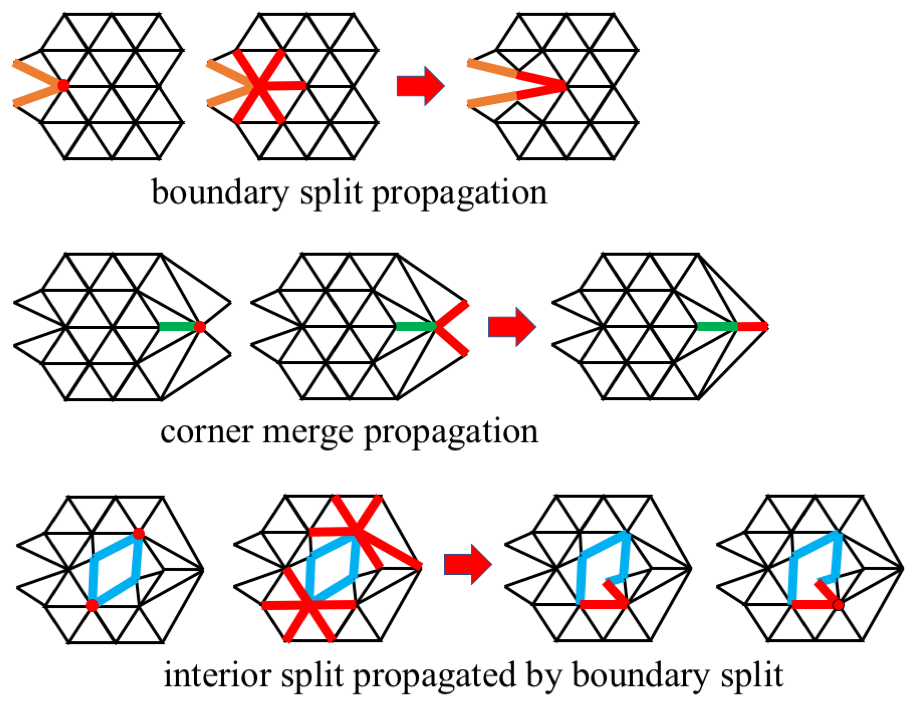
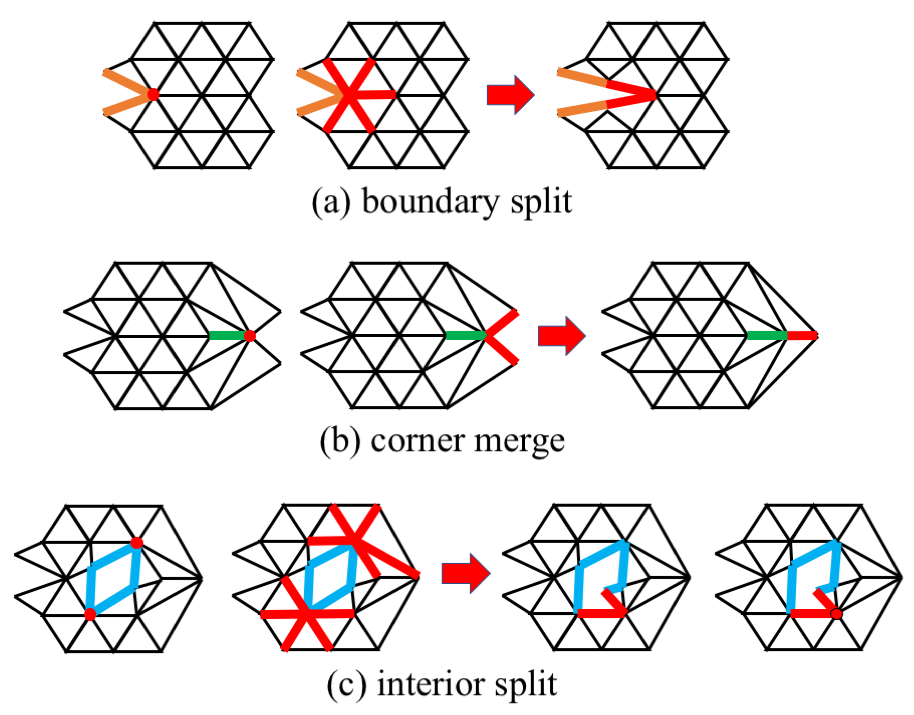
Added propagation figure, replied to propagation detail

Changed region(s): [[0.0, 0.6846, 1.0, 0.9958], [0.0, 0.3423, 0.8884, 0.6535], [0.0, 0.0, 0.7965, 0.3112]]

diff --git a/paper/topologySteps_2.tex b/paper/topologySteps_2.tex
@@ -66,7 +66,7 @@ Corners are formed by three UV vertices corresponding to the tail edge of a cut 
 \subsection{Topology Search Candidates}
 In analogy to a continuous search direction, at the start of each new primal solve we search for a candidate mesh operation to propagate descent with. 
 %
-To select the candidate mesh operation we first consider all $m$ boundary vertices in the current topology $T^k$. \danny{Minchen: confirm this detail:} For each such vertex we compute the standard deviation over all the distortion energy gradients acting on the vertex contributed from incident elements. From the set of $m^{0.8}$ boundary vertices with largest deviation we then build a set of candidate mesh operations $O^k$ formed by boundary vertex splits and corner merges (when valid) on those vertices. We then find a minimizer
+To select the candidate mesh operation we first consider all $m$ boundary vertices in the current topology $T^k$. \danny{Minchen: confirm this detail:} For each such vertex we compute the standard deviation over all the distortion energy gradients acting on the vertex contributed from incident elements. From the set of $m^{0.8}$ boundary vertices with largest deviation we then build a set of candidate mesh operations $O^k$ formed by boundary vertex splits and corner merges (when valid) on those vertices. \minchen{The filtering is only applied on split operations, not on corner merge. We simply query all corners, there's not many of them, and the filtering criteria for splits is not appropriate for merge.} We then find a minimizer
 \begin{align}
 \label{eq:minO}
 o^{i,j} = \argmin_{o \in O^k} d(o).
@@ -77,13 +77,20 @@ Note that with local support all queried $d$ in this minimization can be evaluat
 
 Once we have computed our candidate search operation $s^k$, we begin an inner loop iteration, indexed by superscript $i$ (recalling outer iterates are indexed by $k$), to solve the primal variable update. At the start of this process we initialize our desired upper bound on estimated decrease to $\delta^0 = 0$; this will be updated at each successive iterate. Then, each inner iteration $i$ proceeds by first propagating topology change followed by smooth coordinate update. 
 
-Each topology propagation step first generates a set of all possible mesh operations $\mathcal{E}(s^k)$ that could continue the seed operation $s^k$, e.g. all edges that could continue to propagate a boundary splitting cut from the current tail. See Figure\ \ref{}  \danny{Minchen please add the figure here.}.
-As in seeking our seed operation we once agin find the $d$ minimizing operation from this small set of candidate operations
+Each topology propagation step first generates a set of all possible mesh operations $\mathcal{E}(s^k)$ that could continue the seed operation $s^k$, e.g. all edges that could continue to propagate a boundary splitting cut from the current tail. See Figure\ \ref{fig:propagation} for illustrations on how we propagate each kind of the operations.
+As in seeking our seed operation we once again find the $d$ minimizing operation from this small set of candidate operations
 \begin{align}
 \label{eq:minE}
 o^{i,j} = \argmin_{o \in \mathcal{E}(s^k)} d(o).
 \end{align}
-If this minimizer provides sufficient estimated decrease, so that $d(o^{i,j}) < \delta^{i-1}$, we accept the topology update setting $T^i \leftarrow T^j$; otherwise, we keep topology unchanged with $T^i \leftarrow T^{i-1}.$ 
+If this minimizer provides sufficient estimated decrease, so that $d(o^{i,j}) < \delta^{i-1}$, we accept the topology update setting $T^i \leftarrow T^j$; otherwise, we keep topology unchanged with $T^i \leftarrow T^{i-1}.$
+
+\begin{figure}[t]
+\centering
+\includegraphics[width=0.8\linewidth]{fig/propagation.png}
+\caption{Propagation of boundary split (orange), corner merge (green), and interior split (blue). When propagating boundary split, all edges that could continue to propagate a boundary splitting cut from the current tail would be considered (a); for corner merge we just query the new corner at the current tail (b); for interior split, once an incident edge of either the two tail is splitted as propagation, in the following iterations it would be the same as propagating boundary split (c).}
+\label{fig:propagation}
+\end{figure}
 
 The following coordinate update then simply applies a single step of projected Newton descent with line search to gain the updated vertex coordinates $U^i$; see Section~\ref{} for details. We then ask for the next topology update to gain similar or greater magnitude decrease by setting $\delta^i = E_d(U^i) - E_d(U^{i-1})$.
 
